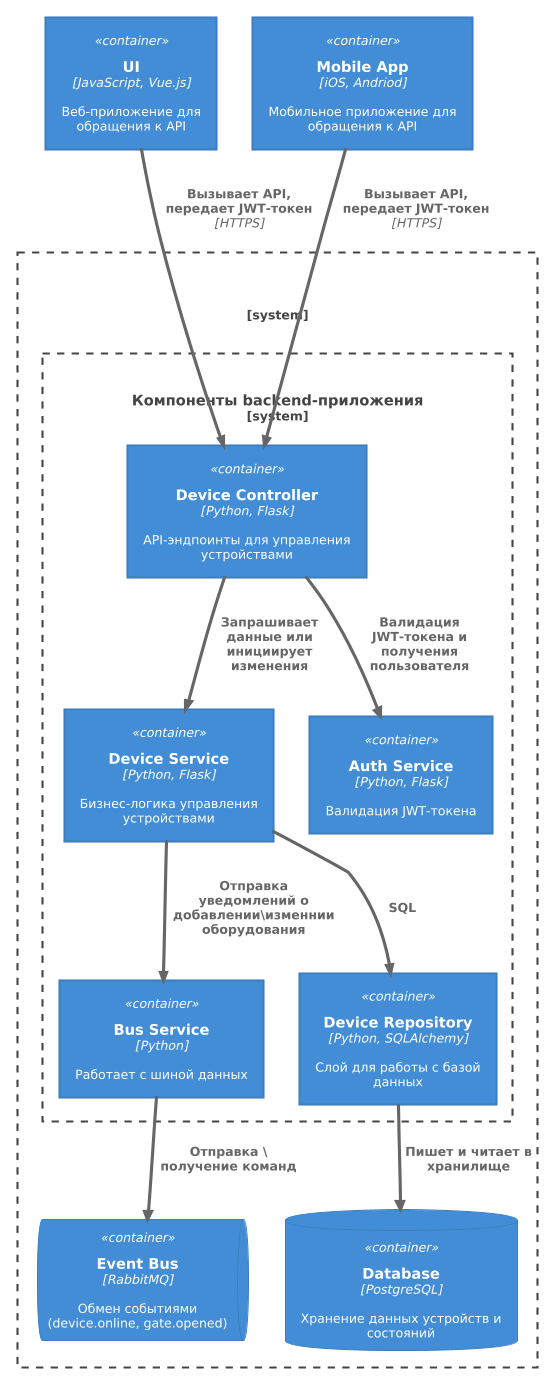
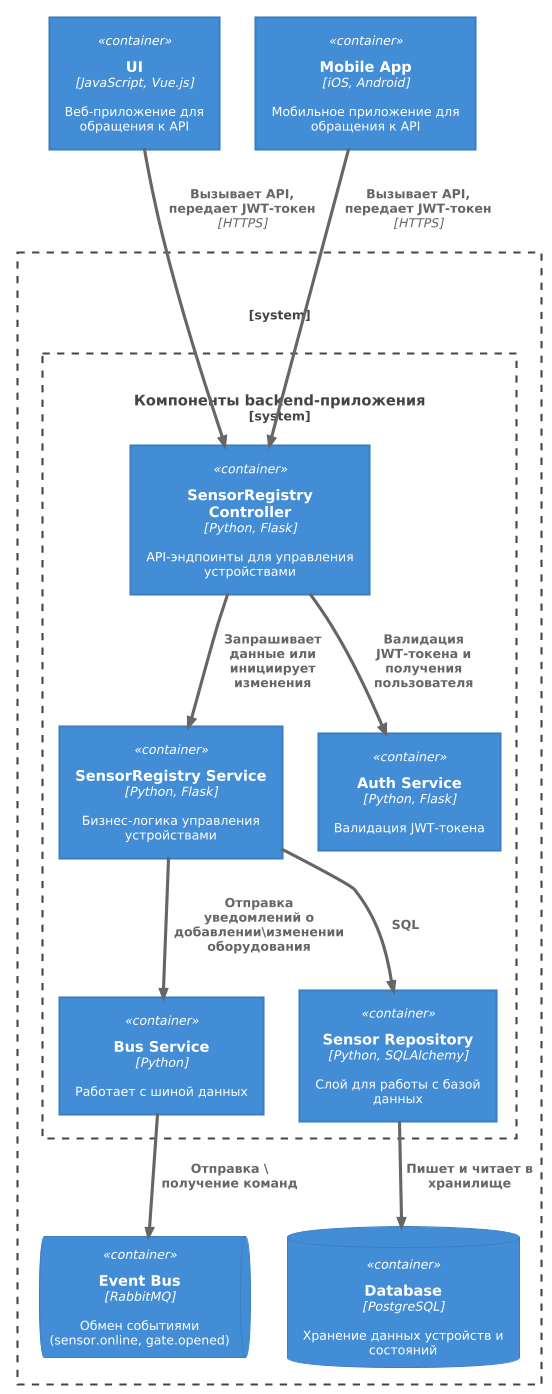
Спринт 1: Переименовал device в sensor

diff --git a/README.md b/README.md
@@ -47,13 +47,13 @@
 
 **Диаграмма компонентов (Components)**
 
-[Реестр оборуования](diagrams/out/component/registry.png)
-[Телеметрия](diagrams/out/component/telemetry.png)
-[Управление устройством](diagrams/out/component/device.png)
+- [Реестр оборуования](diagrams/out/component/registry.png)
+- [Телеметрия](diagrams/out/component/telemetry.png)
+- [Управление устройством](diagrams/out/component/sensor.png)
 
 **Диаграмма кода (Code)**
 
-[Устройство](diagrams/out/code/device.png)
+[Устройство](diagrams/out/code/sensor.png)
 
 # Задание 3. Разработка ER-диаграммы
 
@@ -75,59 +75,8 @@
 
 # Задание 5. Работа с docker и docker-compose
 
-Перейдите в apps.
-
-Там находится приложение-монолит для работы с датчиками температуры. В README.md описано как запустить решение.
-
-Вам нужно:
-
-1) сделать простое приложение temperature-api на любом удобном для вас языке программирования, которое при запросе /temperature?location= будет отдавать рандомное значение температуры.
-
-Locations - название комнаты, sensorId - идентификатор названия комнаты
-
-```
-	// If no location is provided, use a default based on sensor ID
-	if location == "" {
-		switch sensorID {
-		case "1":
-			location = "Living Room"
-		case "2":
-			location = "Bedroom"
-		case "3":
-			location = "Kitchen"
-		default:
-			location = "Unknown"
-		}
-	}
-
-	// If no sensor ID is provided, generate one based on location
-	if sensorID == "" {
-		switch location {
-		case "Living Room":
-			sensorID = "1"
-		case "Bedroom":
-			sensorID = "2"
-		case "Kitchen":
-			sensorID = "3"
-		default:
-			sensorID = "0"
-		}
-	}
-```
-
-2) Приложение следует упаковать в Docker и добавить в docker-compose. Порт по умолчанию должен быть 8081
-
-3) Кроме того для smart_home приложения требуется база данных - добавьте в docker-compose файл настройки для запуска postgres с указанием скрипта инициализации ./smart_home/init.sql
-
-Для проверки можно использовать Postman коллекцию smarthome-api.postman_collection.json и вызвать:
-
-- Create Sensor
-- Get All Sensors
-
-Должно при каждом вызове отображаться разное значение температуры
-
-Ревьюер будет проверять точно так же.
-
+- [docker-compose.yml](apps/docker-compose.yml)
+- [temperature-api](apps/temperature-api)
 
 # **Задание 6. Разработка MVP**
 

diff --git a/mvp/README.md b/mvp/README.md
@@ -1,0 +1,16 @@
+- heath 
+  - event listener (2 events) + log (запись в бд) 
+  - switch (запись в БД)
+  - отправка сообщения в сервис телеметрии 
+
+- temperature
+  - event listener (2 events) + log (запись в бд)
+  - switch (запись в БД)
+  - отправка сообщения в сервис телеметрии
+
+- gates
+
+- telemetry 
+ - event listener (2 events) + log (запись в бд)
+ - switch (запись в БД)
+ - отправка сообщения в сервис телеметрии
